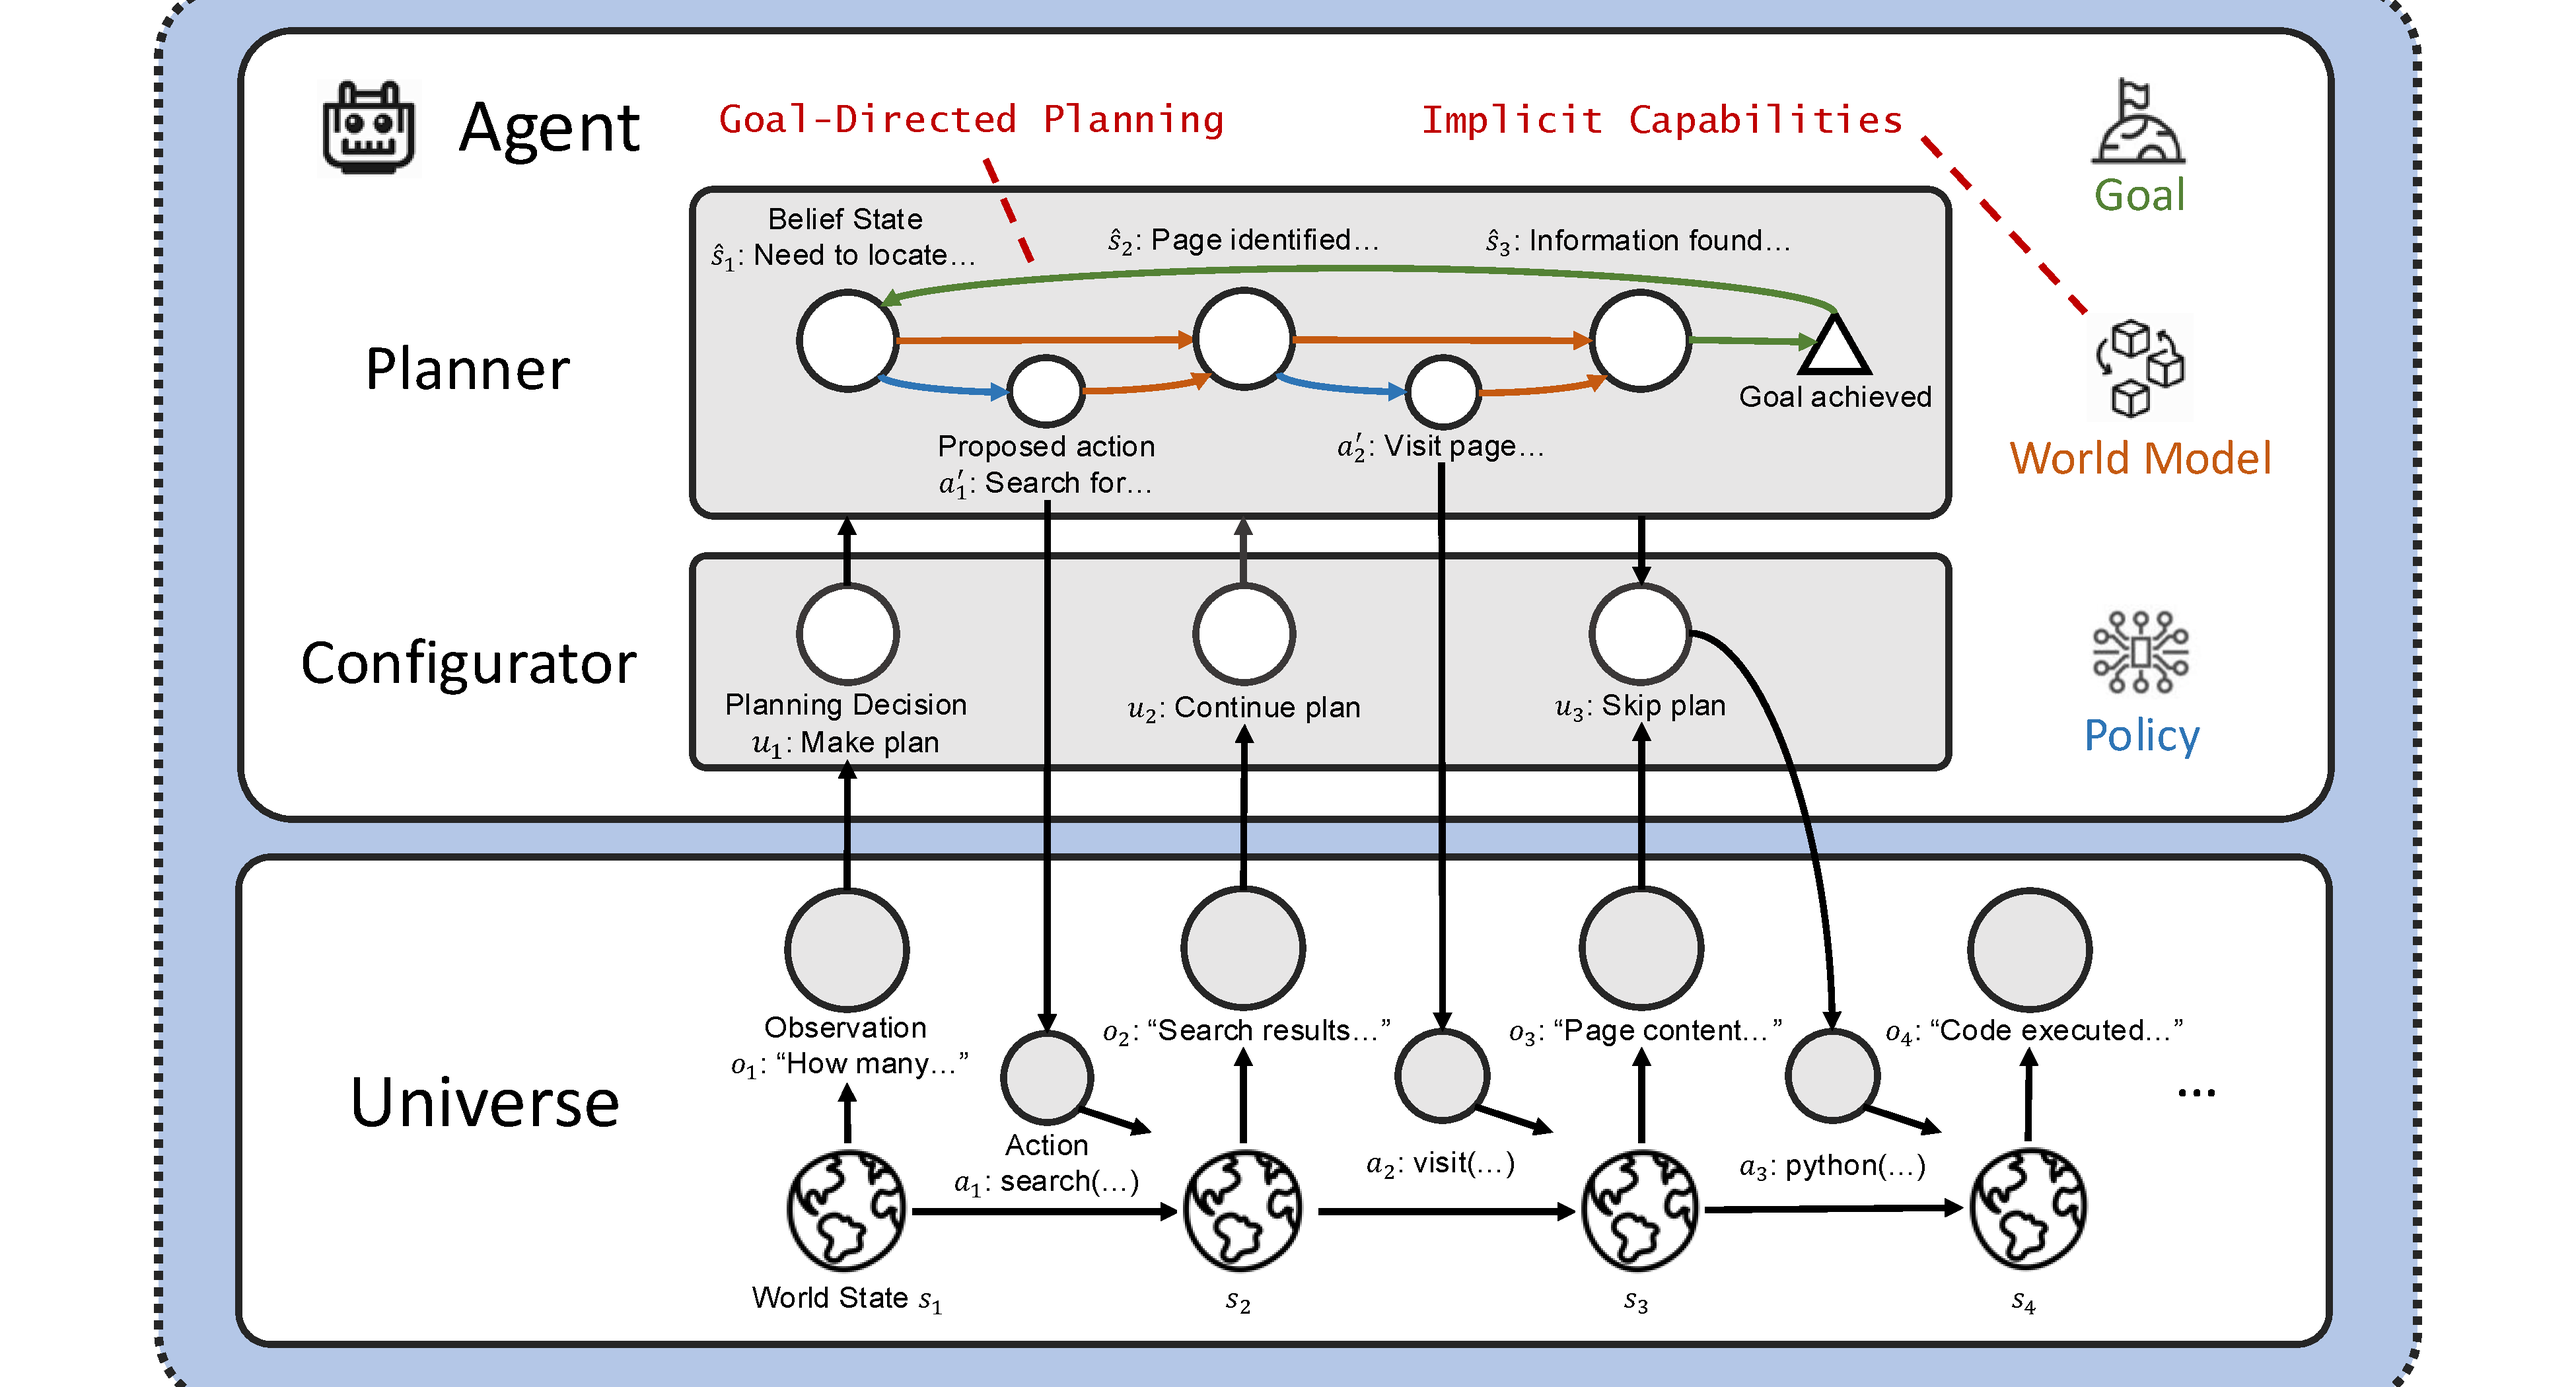
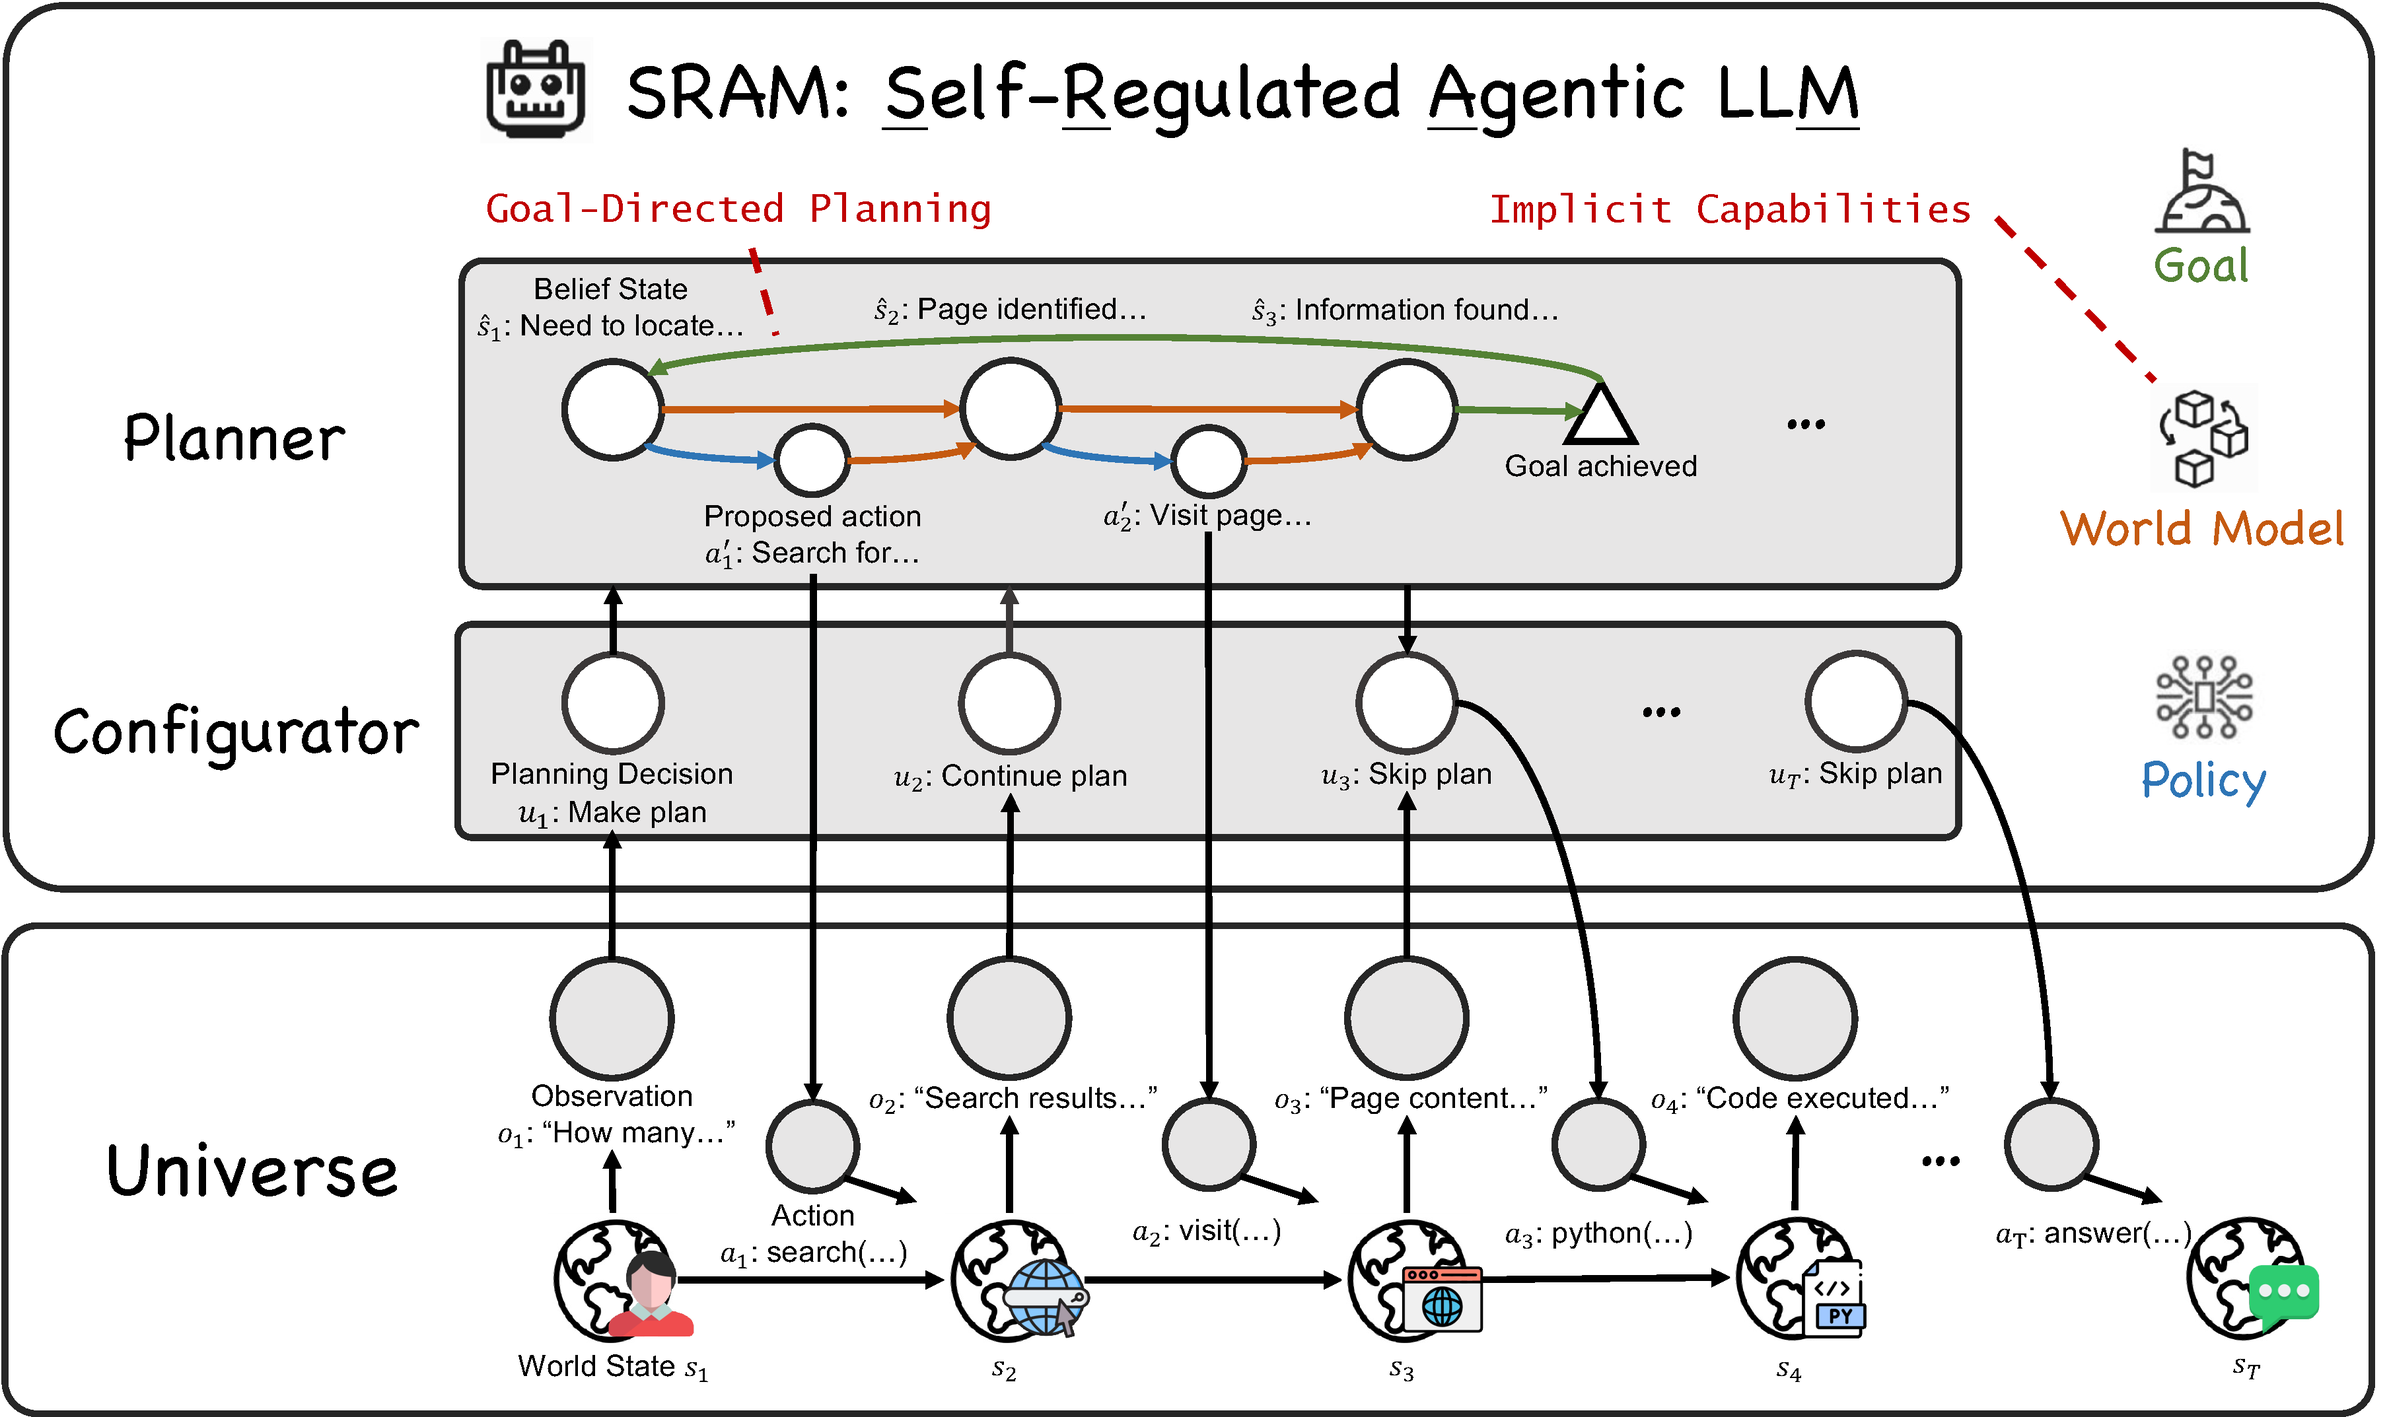
Add symbols to Key Findings cards; switch first figure to 1.3-sram-arch
- Finding cards now have SVG icons (arrow-down, lightning, grid, chart)
- sram-arch-main.png reconverted from 1.3-sram-arch.pdf at 300 DPI

diff --git a/index.html b/index.html
@@ -344,18 +344,30 @@
       <h3 class="table-title findings-title">Key Findings</h3>
       <div class="findings-grid">
         <div class="finding-card">
+          <div class="finding-icon">
+            <svg xmlns="http://www.w3.org/2000/svg" width="22" height="22" fill="currentColor" viewBox="0 0 16 16"><path d="M8 1a.5.5 0 0 1 .5.5v11.793l3.146-3.147a.5.5 0 0 1 .708.708l-4 4a.5.5 0 0 1-.708 0l-4-4a.5.5 0 0 1 .708-.708L7.5 13.293V1.5A.5.5 0 0 1 8 1z"/></svg>
+          </div>
           <h4>50% Token Reduction</h4>
           <p>SRAM v1.0 30B consumes 25.8–95.3% fewer reasoning tokens compared to 30–32B agentic LLMs achieving similar accuracy.</p>
         </div>
         <div class="finding-card">
+          <div class="finding-icon">
+            <svg xmlns="http://www.w3.org/2000/svg" width="22" height="22" fill="currentColor" viewBox="0 0 16 16"><path d="M11.251.068a.5.5 0 0 1 .227.58L9.677 6.5H13a.5.5 0 0 1 .364.843l-8 8.5a.5.5 0 0 1-.842-.49L6.323 9.5H3a.5.5 0 0 1-.364-.843l8-8.5a.5.5 0 0 1 .615-.09z"/></svg>
+          </div>
           <h4>Better RL Initialization</h4>
           <p>Self-regulation SFT reduces RL token consumption by 41–55% while converging to a higher overall score than black-box training.</p>
         </div>
         <div class="finding-card">
+          <div class="finding-icon">
+            <svg xmlns="http://www.w3.org/2000/svg" width="22" height="22" fill="currentColor" viewBox="0 0 16 16"><path d="M1 2.5A1.5 1.5 0 0 1 2.5 1h3A1.5 1.5 0 0 1 7 2.5v3A1.5 1.5 0 0 1 5.5 7h-3A1.5 1.5 0 0 1 1 5.5v-3zm8 0A1.5 1.5 0 0 1 10.5 1h3A1.5 1.5 0 0 1 15 2.5v3A1.5 1.5 0 0 1 13.5 7h-3A1.5 1.5 0 0 1 9 5.5v-3zm-8 8A1.5 1.5 0 0 1 2.5 9h3A1.5 1.5 0 0 1 7 10.5v3A1.5 1.5 0 0 1 5.5 15h-3A1.5 1.5 0 0 1 1 13.5v-3zm8 0A1.5 1.5 0 0 1 10.5 9h3a1.5 1.5 0 0 1 1.5 1.5v3a1.5 1.5 0 0 1-1.5 1.5h-3A1.5 1.5 0 0 1 9 13.5v-3z"/></svg>
+          </div>
           <h4>Deeper, Not More, Planning</h4>
           <p>RL increases average plan length by 22.8% while raising planning frequency only 2.0% — the model learns to plan better, not more.</p>
         </div>
         <div class="finding-card">
+          <div class="finding-icon">
+            <svg xmlns="http://www.w3.org/2000/svg" width="22" height="22" fill="currentColor" viewBox="0 0 16 16"><path fill-rule="evenodd" d="M0 0h1v15h15v1H0V0zm14.817 3.113a.5.5 0 0 1 .07.704l-4.5 5.5a.5.5 0 0 1-.74.037L7.06 6.767l-3.656 5.027a.5.5 0 0 1-.808-.588l4-5.5a.5.5 0 0 1 .758-.06l2.609 2.61 4.15-5.073a.5.5 0 0 1 .704-.07z"/></svg>
+          </div>
           <h4>Scales Above the Trend</h4>
           <p>Both SRAM models sit above the Overall Pass@1 vs. log(parameter size) trendline, outperforming their scale would predict.</p>
         </div>

diff --git a/styles.css b/styles.css
@@ -388,6 +388,9 @@ body {
   border-radius: var(--radius); padding: 1.4rem; box-shadow: var(--shadow);
   border-top: 3px solid var(--blue-teal);
 }
+.finding-icon {
+  color: var(--blue-teal); margin-bottom: 0.6rem;
+}
 .finding-card h4 {
   font-family: var(--font-serif);
   font-size: 0.93rem; font-weight: 700; color: var(--blue-deep); margin-bottom: 0.45rem;
